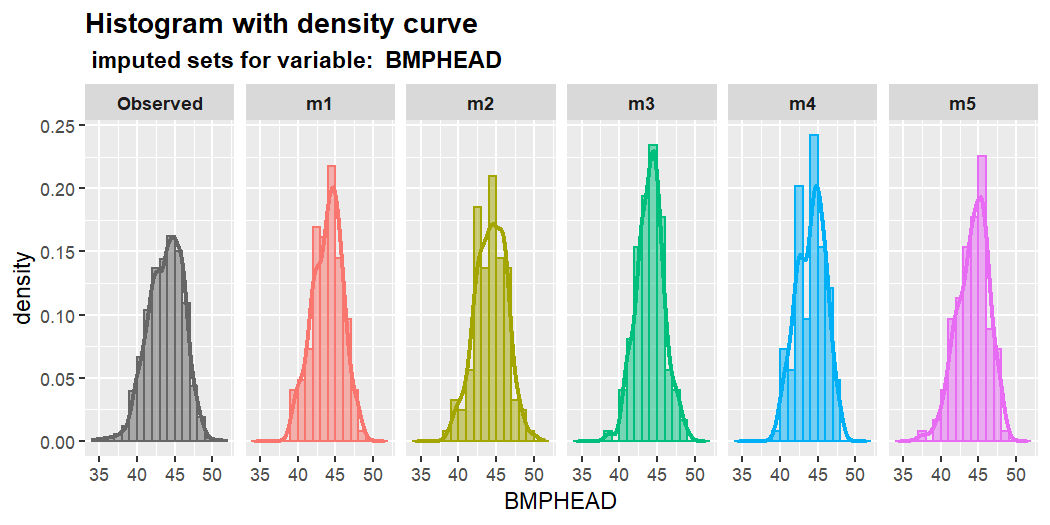
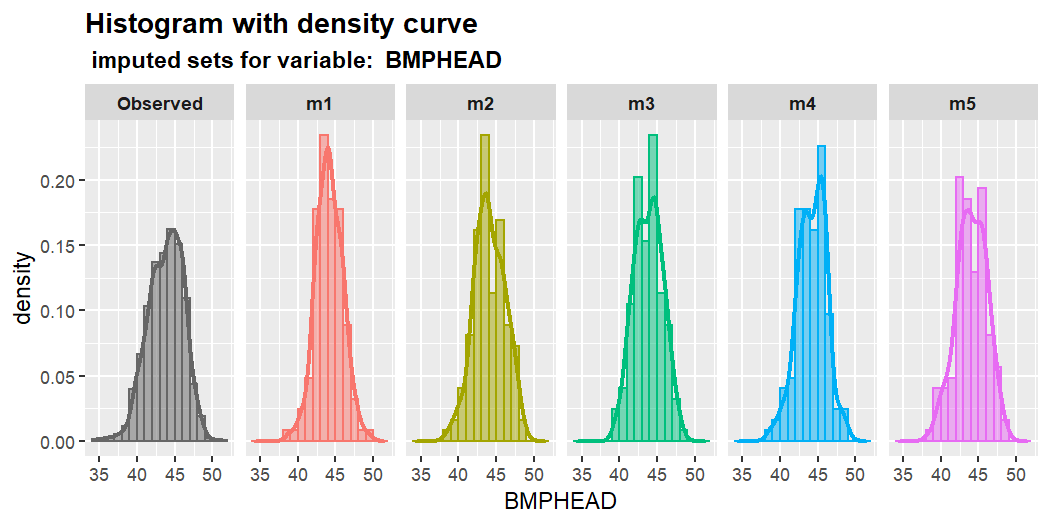
minor change

diff --git a/README.md b/README.md
@@ -8,7 +8,7 @@
 [![](https://img.shields.io/badge/Made%20With-R-9cf)](https://github.com/agnesdeng/mixgb)
 [![](https://img.shields.io/badge/CRAN-1.0.2-9cf)](https://github.com/agnesdeng/mixgb)
 [![](https://cranlogs.r-pkg.org/badges/mixgb)](https://cran.r-project.org/package=mixgb)
-[![](https://img.shields.io/badge/github-1.0.2-brightgreen)](https://github.com/agnesdeng/mixgb)
+[![](https://img.shields.io/badge/github-1.0.3-brightgreen)](https://github.com/agnesdeng/mixgb)
 [![R-CMD-check](https://github.com/agnesdeng/mixgb/actions/workflows/R-CMD-check.yaml/badge.svg)](https://github.com/agnesdeng/mixgb/actions/workflows/R-CMD-check.yaml)
 <!-- badges: end -->
 
@@ -184,16 +184,13 @@ We can also customize imputation settings:
 
 ``` r
 # Use mixgb with chosen settings
-params <- list(max_depth = 3, gamma = 0, eta = 0.3, min_child_weight = 1,
-    subsample = 0.7, colsample_bytree = 1, colsample_bylevel = 1,
-    colsample_bynode = 1, nthread = 4, tree_method = "auto",
-    gpu_id = 0, predictor = "auto")
+params <- list(max_depth = 5, subsample = 0.9, nthread = 2, tree_method = "hist")
 
-imputed.data <- mixgb(data = nhanes3_newborn, m = 5, maxit = 1,
+imputed.data <- mixgb(data = nhanes3_newborn, m = 10, maxit = 2,
     ordinalAsInteger = FALSE, bootstrap = FALSE, pmm.type = "auto",
     pmm.k = 5, pmm.link = "prob", initial.num = "normal", initial.int = "mode",
     initial.fac = "mode", save.models = FALSE, save.vars = NULL,
-    xgb.params = params, nrounds = 100, early_stopping_rounds = 10,
+    xgb.params = params, nrounds = 200, early_stopping_rounds = 10,
     print_every_n = 10L, verbose = 0)
 ```
 
@@ -214,9 +211,9 @@ params <- list(max_depth = 3, subsample = 0.7, nthread = 2)
 cv.results <- mixgb_cv(data = nhanes3_newborn, nrounds = 100,
     xgb.params = params, verbose = FALSE)
 cv.results$response
-#> [1] "BMPHEAD"
+#> [1] "BMPTR2"
 cv.results$best.nrounds
-#> [1] 18
+#> [1] 17
 ```
 
 By default, `mixgb_cv()` will randomly choose an incomplete variable as
@@ -233,10 +230,10 @@ cv.results <- mixgb_cv(data = nhanes3_newborn, nfold = 10, nrounds = 100,
         "BMPTR1", "BMPTR2", "BMPWT"), xgb.params = params, verbose = FALSE)
 
 cv.results$best.nrounds
-#> [1] 18
+#> [1] 20
 ```
 
-Let’s just try setting `nrounds = cv.results$best.nrounds` in `mixgb()`
+Let us just try setting `nrounds = cv.results$best.nrounds` in `mixgb()`
 to obtain 5 imputed datasets.
 
 ``` r
@@ -300,25 +297,25 @@ specified variable.
 show_var(imputation.list = imputed.data, var.name = "BMPHEAD",
     original.data = withNA.df)
 #>        m1   m2   m3   m4   m5
-#>   1: 44.2 44.7 42.9 43.6 41.7
-#>   2: 42.2 40.2 43.3 41.8 45.7
-#>   3: 43.5 42.4 46.0 43.5 43.8
-#>   4: 42.8 44.3 45.1 42.2 45.1
-#>   5: 45.4 45.0 45.2 46.6 46.8
+#>   1: 44.4 42.8 43.2 44.5 43.0
+#>   2: 45.7 42.2 44.3 45.9 48.2
+#>   3: 42.1 43.7 43.0 42.3 41.8
+#>   4: 42.5 42.6 42.5 43.0 43.5
+#>   5: 45.5 46.8 45.6 45.7 42.7
 #>  ---                         
-#> 120: 44.4 46.2 46.0 45.5 46.3
-#> 121: 45.3 46.4 44.8 46.7 45.0
-#> 122: 41.5 41.9 41.4 39.6 40.8
-#> 123: 42.4 42.9 42.3 40.4 43.0
-#> 124: 44.8 44.6 42.6 43.0 42.4
+#> 120: 45.2 45.5 47.6 45.8 46.0
+#> 121: 44.0 45.2 46.1 44.9 45.9
+#> 122: 41.8 42.6 42.4 42.4 41.6
+#> 123: 46.2 43.9 41.6 43.0 43.1
+#> 124: 45.1 43.3 44.7 44.9 45.6
 show_var(imputation.list = imputed.data, var.name = "HFF1", original.data = withNA.df)
 #>    m1 m2 m3 m4 m5
-#> 1:  2  2  1  2  2
-#> 2:  1  2  1  2  2
+#> 1:  2  2  2  2  2
+#> 2:  2  2  2  2  2
 #> 3:  2  2  2  2  2
-#> 4:  2  2  2  2  2
-#> 5:  1  1  1  1  1
-#> 6:  1  2  1  1  1
+#> 4:  1  2  2  1  2
+#> 5:  1  1  1  2  1
+#> 6:  1  2  2  2  2
 #> 7:  2  2  2  2  2
 ```
 
@@ -494,9 +491,7 @@ GPU-realted arguments include `gpu_id` and `predictor`. By default,
 `gpu_id = 0` and `predictor = "auto"`.
 
 ``` r
-params <- list(max_depth = 3, gamma = 0.1, eta = 0.3, min_child_weight = 1,
-    subsample = 0.7, colsample_bytree = 1, colsample_bylevel = 1,
-    colsample_bynode = 1, nthread = 1, tree_method = "gpu_hist",
+params <- list(max_depth = 3, subsample = 0.7, nthread = 1, tree_method = "gpu_hist",
     gpu_id = 0, predictor = "auto")
 
 

diff --git a/NEWS.md b/NEWS.md
@@ -1,3 +1,8 @@
+# mixgb 1.0.3
+  * Minor change:
+  - Add an auxiliary function `default_params()` for the main function `mixgb()`. 
+    This function is designed to validate the list of XGBoost hyperparameters that are provided by the user. If users only want to modify a subset of hyperparameter, they can simply pass in those specific hyperparameters as a list in the `xgb_params` argument, without having to listing all other hyperparameters along with their default values.
+  
 # mixgb 1.0.2
   * Minor change:
   - All examples use `nthread = 2` to meet the requirement of the CRAN policy.

diff --git a/cran-comments.md b/cran-comments.md
@@ -5,7 +5,7 @@
 ## Resubmission
 This is a resubmission. In this version I have changed all examples to use  `nthread = 2 ` to ensure that the number of threads used is compliant with the CRAN policy.
 
-In addition, Uwe Ligges, the CRAN maintainer of binary packages for Windows notified me that the issue on Windows platforms are false positive.
+In addition, the CRAN maintainer of binary packages for Windows notified me that the issue of the last submission on Windows platforms are false positive.
 
 ## R CMD check results
 0 errors ✔ | 0 warnings ✔ | 0 notes ✔
